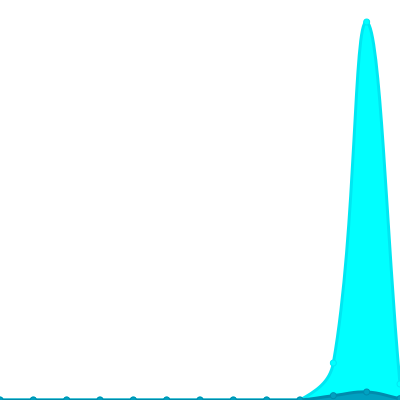
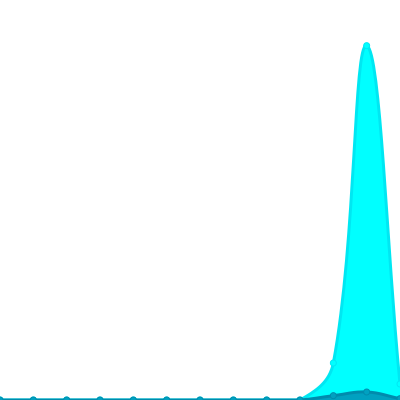
Update views

diff --git a/readme/654215081/year.md b/readme/654215081/year.md
@@ -37,7 +37,7 @@
 			<code>24</code>
 		</td>
 		<td>
-			<code>1134</code>
+			<code>1063</code>
 		</td>
 	</tr>
 	<tr>
@@ -164,7 +164,7 @@
 </table>
 
 </details>
-<small><i>Last updated on 2024/2/3 6:07 AM UTC</i></small>
+<small><i>Last updated on 2024/2/3 12:09 PM UTC</i></small>
 
 ## ✂Copy and 📋 Paste
 ### SVG Badge

diff --git a/README.md b/README.md
@@ -293,7 +293,7 @@ The project created and maintained by [gayanvoice](https://github.com/gayanvoice
 	</tr>
 </table>
 
-<small><i>Last updated on 2024/2/3 6:08 AM UTC</i></small>
+<small><i>Last updated on 2024/2/3 12:09 PM UTC</i></small>
 
 ## ✂Copy and 📋 Paste
 ### Total Views Badge

diff --git a/readme/482187922/year.md b/readme/482187922/year.md
@@ -164,7 +164,7 @@
 </table>
 
 </details>
-<small><i>Last updated on 2024/2/3 6:06 AM UTC</i></small>
+<small><i>Last updated on 2024/2/3 12:07 PM UTC</i></small>
 
 ## ✂Copy and 📋 Paste
 ### SVG Badge

diff --git a/readme/512179107/year.md b/readme/512179107/year.md
@@ -164,7 +164,7 @@
 </table>
 
 </details>
-<small><i>Last updated on 2024/2/3 6:06 AM UTC</i></small>
+<small><i>Last updated on 2024/2/3 12:07 PM UTC</i></small>
 
 ## ✂Copy and 📋 Paste
 ### SVG Badge

diff --git a/readme/571109323/year.md b/readme/571109323/year.md
@@ -164,7 +164,7 @@
 </table>
 
 </details>
-<small><i>Last updated on 2024/2/3 6:07 AM UTC</i></small>
+<small><i>Last updated on 2024/2/3 12:09 PM UTC</i></small>
 
 ## ✂Copy and 📋 Paste
 ### SVG Badge

diff --git a/readme/572218497/year.md b/readme/572218497/year.md
@@ -164,7 +164,7 @@
 </table>
 
 </details>
-<small><i>Last updated on 2024/2/3 6:06 AM UTC</i></small>
+<small><i>Last updated on 2024/2/3 12:08 PM UTC</i></small>
 
 ## ✂Copy and 📋 Paste
 ### SVG Badge

diff --git a/readme/579138899/year.md b/readme/579138899/year.md
@@ -164,7 +164,7 @@
 </table>
 
 </details>
-<small><i>Last updated on 2024/2/3 6:06 AM UTC</i></small>
+<small><i>Last updated on 2024/2/3 12:08 PM UTC</i></small>
 
 ## ✂Copy and 📋 Paste
 ### SVG Badge

diff --git a/readme/579309268/year.md b/readme/579309268/year.md
@@ -164,7 +164,7 @@
 </table>
 
 </details>
-<small><i>Last updated on 2024/2/3 6:06 AM UTC</i></small>
+<small><i>Last updated on 2024/2/3 12:08 PM UTC</i></small>
 
 ## ✂Copy and 📋 Paste
 ### SVG Badge

diff --git a/readme/580376557/year.md b/readme/580376557/year.md
@@ -164,7 +164,7 @@
 </table>
 
 </details>
-<small><i>Last updated on 2024/2/3 6:07 AM UTC</i></small>
+<small><i>Last updated on 2024/2/3 12:08 PM UTC</i></small>
 
 ## ✂Copy and 📋 Paste
 ### SVG Badge

diff --git a/readme/581154681/year.md b/readme/581154681/year.md
@@ -164,7 +164,7 @@
 </table>
 
 </details>
-<small><i>Last updated on 2024/2/3 6:06 AM UTC</i></small>
+<small><i>Last updated on 2024/2/3 12:08 PM UTC</i></small>
 
 ## ✂Copy and 📋 Paste
 ### SVG Badge

diff --git a/readme/581416856/year.md b/readme/581416856/year.md
@@ -164,7 +164,7 @@
 </table>
 
 </details>
-<small><i>Last updated on 2024/2/3 6:07 AM UTC</i></small>
+<small><i>Last updated on 2024/2/3 12:08 PM UTC</i></small>
 
 ## ✂Copy and 📋 Paste
 ### SVG Badge

diff --git a/readme/581585157/year.md b/readme/581585157/year.md
@@ -164,7 +164,7 @@
 </table>
 
 </details>
-<small><i>Last updated on 2024/2/3 6:07 AM UTC</i></small>
+<small><i>Last updated on 2024/2/3 12:09 PM UTC</i></small>
 
 ## ✂Copy and 📋 Paste
 ### SVG Badge
